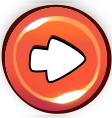
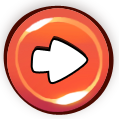
add sprites for menu

Changed region(s): [[0.0, 0.0, 1.0, 0.9661], [0.2411, 0.2797, 0.7768, 0.7119], [0.2411, 0.8898, 0.4821, 0.9661]]

diff --git a/src/ui/UIManager.js b/src/ui/UIManager.js
@@ -661,8 +661,8 @@ initSuccessButtons() {
         replay: {
             x: width / 2 - 100,
             y: height / 2 + 145,
-            w: 70,
-            h: 70
+            w: 65,
+            h: 65
         },
         home: {
             x: width / 2 + 100,
@@ -697,6 +697,7 @@ drawSuccessButton(btn, sprite, label) {
     rectMode(CENTER);
 
     if (sprite?.isReady) {
+        mask: 0xFFFF
         drawSafe(sprite, btn.x, btn.y, btn.w, btn.h, true);
     } else {
         fill(119, 177, 61);
